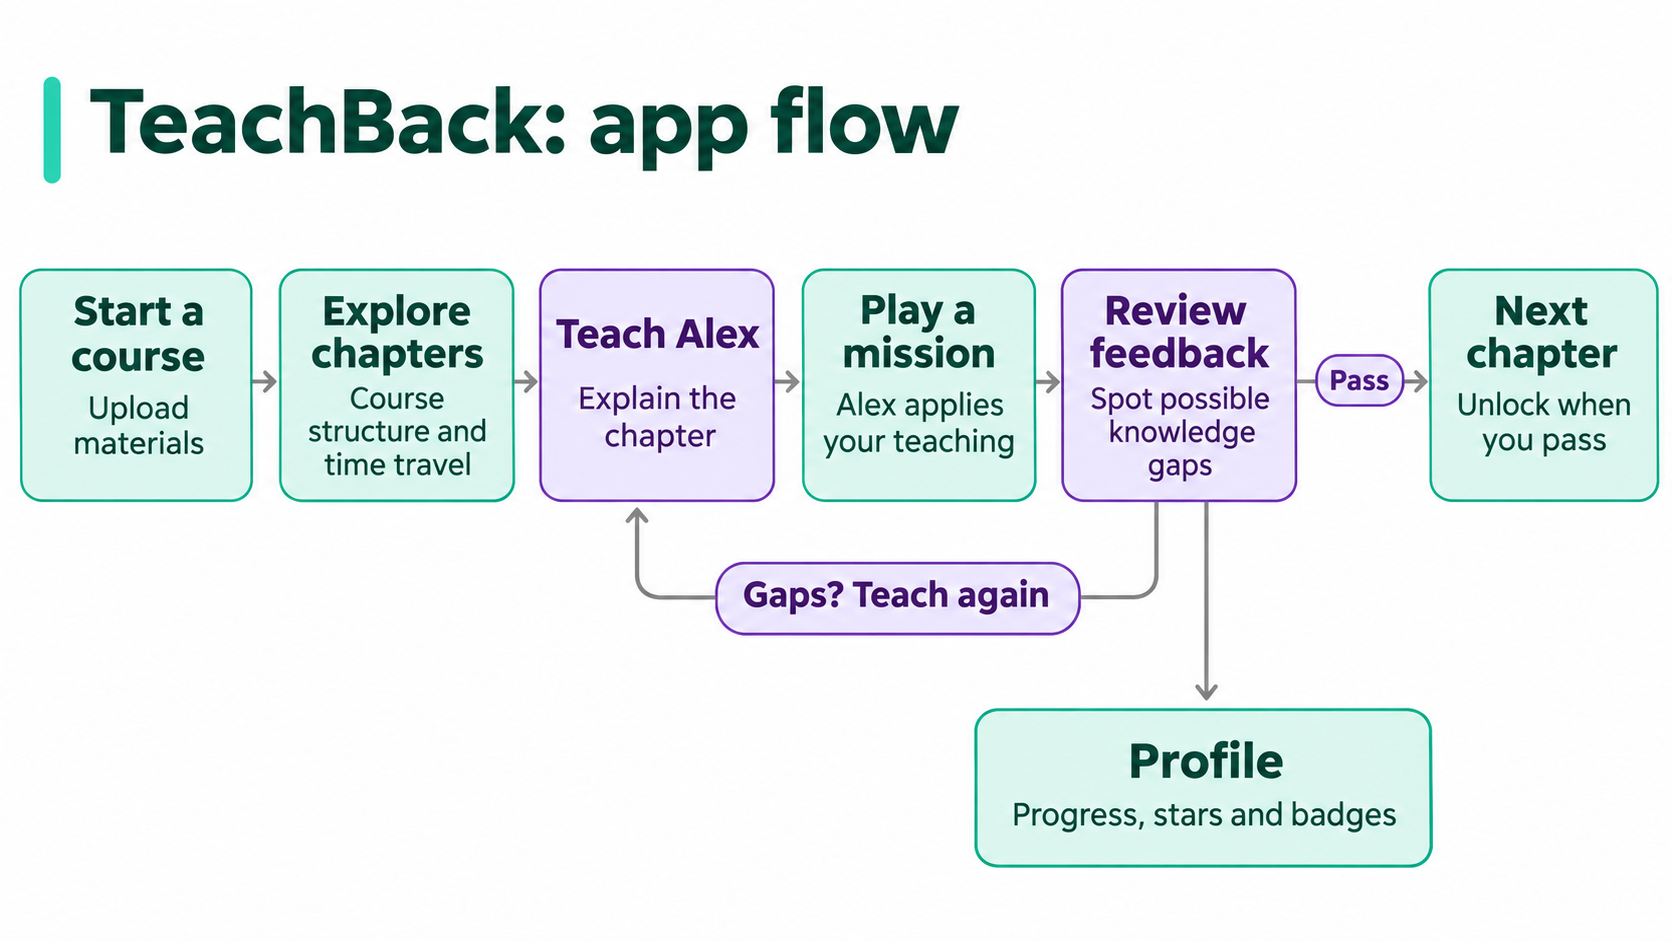
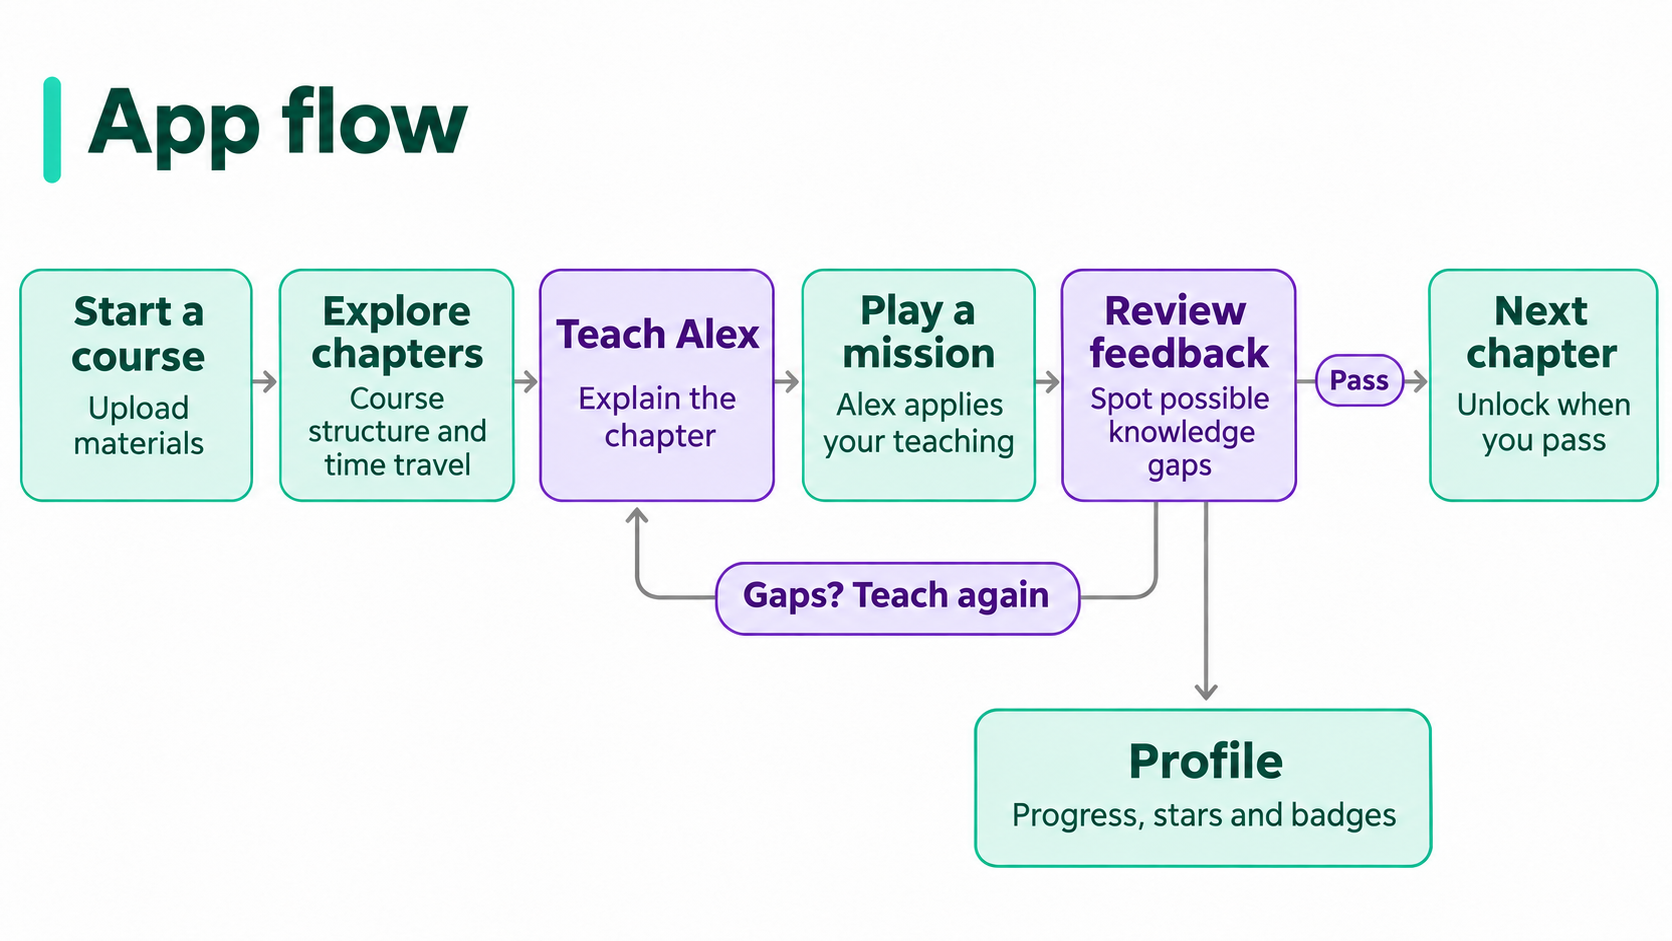
docs: remove TeachBack branding from diagram headings

diff --git a/docs/diagrams/README.md b/docs/diagrams/README.md
@@ -1,4 +1,4 @@
-# TeachBack flowcharts
+# Flowcharts
 
 Three landscape diagrams using the same visual style: pale mint and lavender boxes, dark text, rounded corners and thin arrows on a white background.
 
@@ -8,13 +8,13 @@ These diagrams summarise the product flow and architecture. They do not replace 
 
 Start a course, explore chapters, teach Alex, play a mission and review feedback. Passing unlocks the next chapter. Gaps lead back to teaching.
 
-![TeachBack app flow](app-flow.png)
+![App flow](app-flow.png)
 
 ## Chapter learning loop
 
 Explore a historical era, explain the chapter to Alex and test his understanding in a mission. Keep teaching when Alex is not ready, and revisit weak concepts after assessment.
 
-![TeachBack chapter learning loop](chapter-loop.png)
+![Chapter learning loop](chapter-loop.png)
 
 ## System overview
 
@@ -22,7 +22,7 @@ The curriculum and event agents prepare course and chapter content. Student expl
 
 Validation is grouped with event generation. Assessment, reporting and repair feedback are grouped together for readability.
 
-![TeachBack system overview](system-overview.png)
+![System overview](system-overview.png)
 
 ## Image provenance
 
